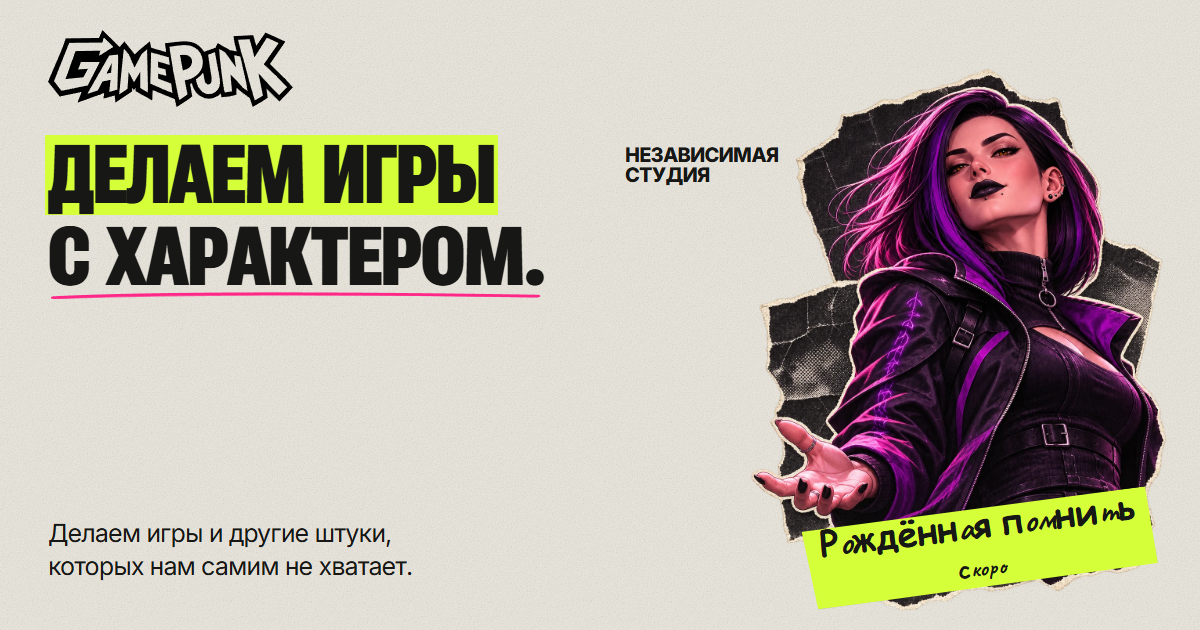
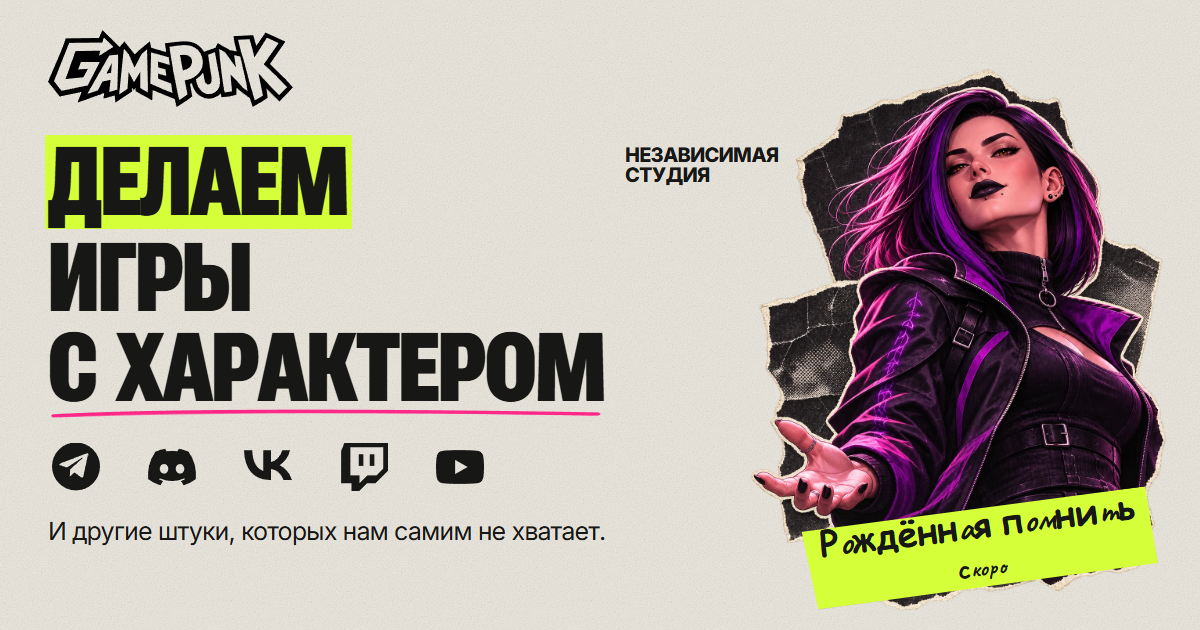
Refine the GamePunk hero and header and refresh bilingual social previews

diff --git a/src/pages/studio.css b/src/pages/studio.css
@@ -41,8 +41,11 @@
 .studio-page h3 { font-family: 'Inter', Arial, sans-serif; }
 .studio-page section[id] { scroll-margin-top: 24px; }
 .studio-container { width: min(1280px, calc(100% - 96px)); margin-inline: auto; }
-.studio-header { display: grid; grid-template-columns: auto 1fr auto; align-items: center; padding-block: 28px; gap: 24px; }
-.studio-header > a, .studio-footer > a { flex-shrink: 0; }
+.studio-header, .studio-header-main { display: flex; flex-wrap: wrap; align-items: center; gap: 4px 24px; }
+.studio-header { padding-block: 28px; }
+.studio-header-main { flex: 1 1 max-content; justify-content: space-between; }
+.studio-header .studio-languages, .studio-header .studio-nav { margin-left: auto; }
+.studio-header-main > a, .studio-footer > a { flex-shrink: 0; }
 .studio-logo { display: block; width: 340px; height: auto; }
 .studio-nav { display: flex; justify-content: flex-end; align-items: center; gap: 32px; font-size: 30px; font-weight: 750; }
 .studio-languages { display: flex; align-items: center; gap: 5px; font-size: 15px; font-weight: 750; white-space: nowrap; }
@@ -52,20 +55,26 @@
 .studio-nav a, .studio-nav-contact { min-height: 44px; display: inline-flex; align-items: center; gap: 5px; }
 .studio-nav a:hover, .studio-nav-contact:hover { text-decoration: underline; text-underline-offset: 6px; }
 .studio-nav svg { width: 30px; height: 30px; }
-.studio-hero { position: relative; padding-block: 35px 52px; border-bottom: 2px solid var(--studio-ink); }
-.studio-hero-copy { position: relative; z-index: 2; width: 64%; container-type: inline-size; }
-.studio-eyebrow { position: absolute; z-index: 3; left: 67%; top: 55px; font-size: clamp(19px, 1.8vw, 26px); line-height: 1.04; font-weight: 800; letter-spacing: -.04em; }
+.studio-hero { position: relative; display: grid; grid-template-columns: 64% 1fr; align-items: center; padding-block: 32px; border-bottom: 2px solid var(--studio-ink); }
+.studio-hero-copy { position: relative; z-index: 2; container-type: inline-size; }
+.studio-hero-art { min-width: 0; display: flex; flex-direction: column; align-items: flex-end; }
+.studio-eyebrow { position: relative; z-index: 3; align-self: flex-start; margin-left: 8%; font-size: clamp(19px, 1.8vw, 26px); line-height: 1.04; font-weight: 800; letter-spacing: -.04em; }
 .studio-hero h1 { font-family: 'Studio Poster', Impact, sans-serif; font-weight: 800; font-variation-settings: 'wdth' 55; font-size: 16cqw; letter-spacing: -.015em; line-height: .94; }
+/* Match fallback fonts to the width of Studio Poster's zero at wdth 55. */
+#studio-title { font-size-adjust: ch-width .475; }
 .studio-title-line { display: block; white-space: nowrap; }
 .studio-title-highlight { display: inline-block; padding: .025em .035em .01em; margin-left: -.035em; margin-bottom: .045em; background: var(--studio-lime); }
 .studio-title-marked { display: inline-block; position: relative; }
 .studio-title-marked svg { position: absolute; left: 0; bottom: -.055em; width: 100%; height: .115em; overflow: visible; stroke: var(--studio-pink); stroke-width: 7; stroke-linecap: round; }
 .studio-title-marked svg path + path { stroke-width: 3; opacity: .65; }
-.studio-hero-description { margin-block: 25px; font-size: clamp(18px, 2vw, 27px); line-height: 1.35; letter-spacing: -.04em; max-width: 560px; }
+.studio-hero-description { margin-block: 25px; font-size: clamp(18px, 2vw, 27px); line-height: 1.35; letter-spacing: -.04em; }
 .studio-page .studio-button { display: inline-flex; align-items: center; justify-content: center; gap: 28px; min-height: 58px; background: var(--studio-ink); color: var(--studio-paper); padding: 16px 24px; border: 2px solid var(--studio-ink); border-radius: 0; font-size: 18px; font-weight: 750; line-height: 1.25; transition: background .15s, color .15s; }
 .studio-page .studio-button:hover { background: var(--studio-lime); color: var(--studio-ink); }
 .studio-button svg { width: 25px; height: 25px; flex-shrink: 0; }
-.studio-collage { position: absolute; right: -40px; top: 90px; width: 41%; pointer-events: none; }
+.studio-socials { display: flex; justify-content: space-between; width: min(100%, 440px); gap: 8px; margin-top: clamp(26px, 3vw, 36px); }
+.studio-socials a { display: grid; place-items: center; width: 56px; height: 56px; }
+.studio-socials a:is(:hover, :focus-visible) { background: var(--studio-lime); }
+.studio-collage { position: relative; right: -40px; width: 114%; margin-top: -12px; pointer-events: none; }
 .studio-collage-art { display: block; width: 100%; height: auto; }
 .studio-character-sticker { position: absolute; right: 4%; bottom: 5%; padding: .04em .45em .15em; background: var(--studio-lime); font-family: 'Studio Hand', cursive; font-size: clamp(25px, 3vw, 43px); font-weight: 700; line-height: 1.05; text-align: center; white-space: nowrap; transform: rotate(-7deg); box-shadow: 1px 3px 1px #17171526; clip-path: polygon(0 4%, 99% 0, 100% 94%, 2% 100%); }
 .studio-character-sticker small { font-size: .64em; }
@@ -149,20 +158,14 @@
 .studio-game-description { font-size: 16px; line-height: 1.55; }
 .studio-game-actions { display: flex; flex-wrap: wrap; align-items: center; gap: 12px 20px; margin-top: 20px; padding-top: 16px; border-top: 1px solid var(--studio-ink); }
 .studio-game-actions .studio-button { min-height: 48px; padding: 10px 16px; font-size: 15px; gap: 14px; }
-@media (min-width: 601px) and (max-width: 1100px) {
-  .studio-header { grid-template-columns: 1fr auto; gap: 8px 24px; }
-  .studio-header .studio-languages { grid-column: 2; grid-row: 1; }
-  .studio-header .studio-nav { grid-column: 1 / -1; grid-row: 2; }
-}
 @media (max-width: 900px) {
   .studio-container { width: calc(100% - 48px); }
   .studio-header { padding-block: 24px; }
   .studio-logo { width: clamp(170px, 28vw, 250px); }
   .studio-nav { gap: 24px; font-size: clamp(19px, 3vw, 24px); }
   .studio-nav svg { width: 25px; height: 25px; }
-  .studio-hero-copy { width: 61%; }
-  .studio-eyebrow { left: 65%; top: 45px; }
-  .studio-collage { right: -25px; top: 80px; width: 46%; }
+  .studio-hero { grid-template-columns: 61% 1fr; min-height: 0; padding-block: 16px 24px; }
+  .studio-collage { right: -25px; width: 118%; }
   .studio-manifesto-layout { grid-template-columns: 1fr 140px; gap: 30px; }
   .studio-people-layout { grid-template-columns: 1fr; gap: 40px; }
   .studio-person:not(:last-child) { padding-bottom: 28px; border-bottom: 1px solid #8e8b83; }
@@ -174,25 +177,25 @@
 }
 @media (max-width: 600px) {
   .studio-container { width: calc(100% - 36px); }
-  .studio-header { grid-template-columns: 1fr auto; gap: 12px; padding-block: 18px 8px; align-items: center; }
-  .studio-header .studio-languages { grid-column: 2; grid-row: 1; }
+  .studio-header { padding-block: 18px 8px; }
+  .studio-header-main { justify-content: center; column-gap: 12px; }
   .studio-logo { width: clamp(180px, 56vw, 220px); }
-  .studio-nav { grid-column: 1 / -1; grid-row: 2; width: 100%; justify-content: space-between; gap: 12px; font-size: 19px; }
+  .studio-header .studio-nav { margin-left: 0; gap: 12px; font-size: clamp(16px, 5.3vw, 19px); }
   .studio-nav-contact { gap: 2px; }
   .studio-nav svg { width: 20px; height: 20px; }
-  .studio-hero { padding-top: 50px; padding-bottom: 24px; }
-  .studio-hero-copy { width: 100%; }
-  .studio-eyebrow { left: auto; right: 0; top: 12px; font-size: 13px; }
+  .studio-hero { grid-template-columns: fit-content(65%) max-content minmax(0, 1fr); column-gap: 8px; container-type: inline-size; }
+  .studio-hero-copy, .studio-hero-art { display: contents; }
+  .studio-hero h1, .studio-socials, .studio-hero-description, .studio-collage { grid-column: 1 / -1; }
+  .studio-eyebrow { align-self: center; margin: 0; font-size: 13px; }
   .studio-hero h1 { line-height: .96; letter-spacing: -.035em; }
-  .studio-hero { min-height: 0; }
+  .studio-socials { margin-top: 22px; }
   .studio-page-en .studio-people .studio-heading { font-size: 39px; }
   .studio-page-en .studio-manifesto .studio-heading { font-size: 39px; }
   .studio-page-en .studio-contact .studio-heading { font-size: 39px; }
-  .studio-hero-description { font-size: 18px; width: 100%; max-width: 330px; margin-block: 16px; }
-  .studio-desktop-break { display: none; }
-  .studio-collage { position: relative; width: 78%; max-width: 280px; top: auto; right: auto; height: auto; margin: 12px auto 0; }
-  .studio-collage-art { height: auto; }
+  .studio-hero-description { font-size: 18px; margin-block: 16px; }
+  .studio-collage { width: 78%; max-width: 280px; right: auto; margin: 12px auto 0; }
   .studio-page .studio-button { font-size: 15px; min-height: 52px; padding: 13px 18px; gap: 20px; }
+  .studio-hero .studio-button { justify-self: start; padding-inline: 12px; gap: 8px; }
   .studio-projects { padding-block: 24px 34px; }
   .studio-kicker { font-size: 19px; margin-bottom: 12px; }
   .studio-page .studio-heading { font-size: 43px; }

diff --git a/src/pages/Index.tsx b/src/pages/Index.tsx
@@ -13,7 +13,7 @@ import { trackAnalytics } from "@/lib/analytics";
 import { legalHref } from "@/lib/siteContext";
 import { studioCopy } from "@/constants/studioCopy";
 import { studioLocale } from "@/lib/studioLocale";
-import { StudioHeroCollage, StudioHeroTitle } from "@/components/StudioHero";
+import { StudioHeroCollage, StudioHeroTitle, StudioSocials } from "@/components/StudioHero";
 import studioLogo from "@/assets/studio/gamepunk-logo.svg";
 import paintArrow from "@/assets/studio/paint-arrow.webp";
 import heroPhoto from "@/assets/hero-photo.webp";
@@ -41,12 +41,14 @@ const Index = () => {
     <div className={`studio-page studio-page-${locale}`} lang={locale}>
       <a href="#main-content" className="skip-link">{copy.skip}</a>
       <header className="studio-header studio-container">
-        <Link to={home} aria-label={copy.home}><img className="studio-logo" src={studioLogo} width="1756" height="551" alt="GamePunk" /></Link>
-        <nav aria-label={copy.navigation} className="studio-nav">
-          <a href="#projects">{copy.projects}</a>
-          <a href="#studio">{copy.studio}</a>
-          <ContactMessenger studio locale={locale} analyticsPlacement="header" variant="unstyled" size="none" effect="none" className="studio-nav-contact">{copy.contact} <ArrowUpRight aria-hidden="true" /></ContactMessenger>
-        </nav>
+        <div className="studio-header-main">
+          <Link to={home} aria-label={copy.home}><img className="studio-logo" src={studioLogo} width="1756" height="551" alt="GamePunk" /></Link>
+          <nav aria-label={copy.navigation} className="studio-nav">
+            <a href="#projects">{copy.projects}</a>
+            <a href="#studio">{copy.studio}</a>
+            <ContactMessenger studio locale={locale} analyticsPlacement="header" variant="unstyled" size="none" effect="none" className="studio-nav-contact">{copy.contact} <ArrowUpRight aria-hidden="true" /></ContactMessenger>
+          </nav>
+        </div>
         {languageLinks}
       </header>
 
@@ -54,11 +56,14 @@ const Index = () => {
         <section className="studio-hero studio-container" aria-labelledby="studio-title">
           <div className="studio-hero-copy">
             <StudioHeroTitle locale={locale} />
-            <p className="studio-hero-description">{copy.description}<br className="studio-desktop-break" /> {copy.descriptionEnd}</p>
+            <StudioSocials locale={locale} />
+            <p className="studio-hero-description">{copy.description} {copy.descriptionEnd}</p>
             <a href="#projects" className={buttonStyles({ variant: "unstyled", size: "none", effect: "none", className: "studio-button" })}>{copy.viewProjects} <ArrowDown aria-hidden="true" /></a>
           </div>
-          <p className="studio-eyebrow">{copy.independent[0]}<br />{copy.independent[1]}</p>
-          <StudioHeroCollage locale={locale} className="studio-collage" />
+          <div className="studio-hero-art">
+            <p className="studio-eyebrow">{copy.independent[0]}<br />{copy.independent[1]}</p>
+            <StudioHeroCollage locale={locale} className="studio-collage" />
+          </div>
         </section>
 
         <section id="projects" className="studio-projects studio-container" aria-labelledby="studio-projects-title">

diff --git a/src/constants/studioCopy.ts b/src/constants/studioCopy.ts
@@ -3,8 +3,9 @@ import { profileExperience } from "@/content/proof";
 export const studioCopy = {
   ru: {
     skip: "Перейти к содержимому", home: "GamePunk — главная", navigation: "Навигация студии", language: "Язык сайта",
-    projects: "Проекты", studio: "Студия", contact: "Связаться", hero: ["ДЕЛАЕМ ИГРЫ", "С ХАРАКТЕРОМ."],
-    description: "Делаем игры и другие штуки,", descriptionEnd: "которых нам самим не хватает.", viewProjects: "Смотреть проекты",
+    projects: "Проекты", studio: "Студия", contact: "Связаться", hero: ["ДЕЛАЕМ", "ИГРЫ", "С ХАРАКТЕРОМ"],
+    description: "И другие штуки,", descriptionEnd: "которых нам самим не хватает.", viewProjects: "Смотреть проекты",
+    socialLinks: "Соцсети и сообщества",
     independent: ["НЕЗАВИСИМАЯ", "СТУДИЯ"], collageAlt: "Малена с обложки «Рождённая помнить» в коллаже из рваной бумаги",
     characterSticker: "Рождённая помнить", releaseNote: "скоро", projectsKicker: "01 / ПРОЕКТЫ", projectsTitle: "Что мы натворили",
     gameTypes: ["Дуэли с отстрелом конечностей", "PSX-стайл хоррор"], cover: "Обложка игры",
@@ -26,8 +27,9 @@ export const studioCopy = {
   },
   en: {
     skip: "Skip to content", home: "GamePunk — home", navigation: "Studio navigation", language: "Site language",
-    projects: "Projects", studio: "Studio", contact: "Contact", hero: ["WE MAKE GAMES", "WITH CHARACTER."],
-    description: "We make games and other things", descriptionEnd: "we wish existed.", viewProjects: "Explore our projects",
+    projects: "Projects", studio: "Studio", contact: "Contact", hero: ["WE MAKE", "GAMES", "WITH ATTITUDE"],
+    description: "And other things", descriptionEnd: "we wish existed.", viewProjects: "Explore our projects",
+    socialLinks: "Social channels and communities",
     independent: ["INDEPENDENT", "STUDIO"], collageAlt: "Malena from the Born to Remember cover in a torn-paper collage",
     characterSticker: "Born to Remember", releaseNote: "coming soon", projectsKicker: "01 / PROJECTS", projectsTitle: "What we’ve been up to",
     gameTypes: ["Duels with limb dismemberment", "PSX-style horror"], cover: "Game cover:",

diff --git a/src/components/StudioHero.tsx b/src/components/StudioHero.tsx
@@ -1,20 +1,43 @@
 import heroCollage from "@/assets/studio/hero-collage.webp";
+import { DiscordIcon, TelegramIcon, TwitchIcon, VkIcon, YoutubeIcon } from "@/components/SocialIcons";
+import { gamepunkLinks, telegramCommunityUrl } from "@/constants/contactLinks";
 import { studioCopy } from "@/constants/studioCopy";
 import type { StudioLocale } from "@/lib/studioLocale";
 
 export function StudioHeroTitle({ locale }: { locale: StudioLocale }) {
-  const { hero } = studioCopy[locale];
+  const [verb, games, character] = studioCopy[locale].hero;
   return (
     <h1 id="studio-title">
-      <span className="studio-title-line"><span className="studio-title-highlight">{hero[0]}</span></span>{" "}
+      <span className="studio-title-line"><span className="studio-title-highlight">{verb}</span></span>{" "}
+      <span className="studio-title-line">{games}</span>{" "}
       <span className="studio-title-line">
-        <span className="studio-title-marked">{hero[1]}
+        <span className="studio-title-marked">{character}
           <svg viewBox="0 0 600 24" preserveAspectRatio="none" fill="none" aria-hidden="true">
             <path d="M7 17C126 4 357 5 591 13" /><path d="M13 19C153 9 375 7 587 15" />
           </svg>
         </span>
       </span>
     </h1>
+  );
+}
+
+const socialChannels = [
+  { name: "Telegram", href: telegramCommunityUrl, icon: TelegramIcon },
+  { name: "Discord", href: gamepunkLinks.discord, icon: DiscordIcon },
+  { name: "VK", href: gamepunkLinks.vk, icon: VkIcon },
+  { name: "Twitch", href: gamepunkLinks.twitch, icon: TwitchIcon },
+  { name: "YouTube", href: gamepunkLinks.youtube, icon: YoutubeIcon },
+];
+
+export function StudioSocials({ locale }: { locale: StudioLocale }) {
+  return (
+    <nav className="studio-socials" aria-label={studioCopy[locale].socialLinks}>
+      {socialChannels.map(({ name, href, icon: Icon }) => (
+        <a key={name} href={href} target="_blank" rel="noopener noreferrer" aria-label={name} title={name}>
+          <Icon size={48} />
+        </a>
+      ))}
+    </nav>
   );
 }
 

diff --git a/src/test/studio-language.test.tsx b/src/test/studio-language.test.tsx
@@ -19,11 +19,11 @@ describe("studio languages", () => {
     expect(english).toHaveLength(2);
     expect(english[0]).toHaveAttribute("href", "/en/?ref=studio#projects");
     fireEvent.click(english[0]);
-    expect(screen.getByRole("heading", { level: 1 })).toHaveTextContent("WE MAKE GAMES WITH CHARACTER.");
+    expect(screen.getByRole("heading", { level: 1 })).toHaveTextContent("WE MAKE GAMES WITH ATTITUDE");
     const russian = screen.getAllByRole("link", { name: "Русский" });
     expect(russian[1]).toHaveAttribute("href", "/?ref=studio#projects");
     fireEvent.click(russian[1]);
-    expect(screen.getByRole("heading", { level: 1 })).toHaveTextContent("ДЕЛАЕМ ИГРЫ С ХАРАКТЕРОМ.");
+    expect(screen.getByRole("heading", { level: 1 })).toHaveTextContent("ДЕЛАЕМ ИГРЫ С ХАРАКТЕРОМ");
   });
 
   it("translates contact options without changing their reveal mechanism", async () => {
@@ -65,7 +65,7 @@ describe("studio languages", () => {
     expect(prerenderPaths).toContain("/en");
     const html = await renderPage("/en/");
     const doc = new DOMParser().parseFromString(html, "text/html");
-    expect(Array.from(doc.querySelectorAll("h1 .studio-title-line"), line => line.textContent)).toEqual(["WE MAKE", "GAMES", "WITH CHARACTER."]);
+    expect(Array.from(doc.querySelectorAll("h1 .studio-title-line"), line => line.textContent)).toEqual(["WE MAKE", "GAMES", "WITH ATTITUDE"]);
     expect(html).toContain("Without analytics");
     expect(html).toContain("PSX-style horror");
     expect(html).not.toContain("Настройки аналитики");

diff --git a/src/lib/resolvePageMetadata.ts b/src/lib/resolvePageMetadata.ts
@@ -11,7 +11,7 @@ export const resolvePageMetadata = async (pathname: string): Promise<PageMetadat
   if (isStudioPath(path)) {
     const metadata = findRouteMetadata(path)!;
     const language = studioLocale(path);
-    return { ...metadata, language, alternates: [{ language: "ru", pathname: "/" }, { language: "en", pathname: "/en/" }], image: language === "en" ? "/studio-social-en.png" : "/studio-social.png", imageAlt: language === "en" ? "GamePunk — We make games with character." : "GamePunk — Делаем игры с характером.", imageWidth: 1200, imageHeight: 630, structuredData: { "@context": "https://schema.org", "@type": "Organization", name: "GamePunk", url: canonicalUrl(path), description: metadata.description } };
+    return { ...metadata, language, alternates: [{ language: "ru", pathname: "/" }, { language: "en", pathname: "/en/" }], image: language === "en" ? "/studio-social-en.png" : "/studio-social.png", imageAlt: language === "en" ? "GamePunk — We make games with attitude" : "GamePunk — Делаем игры с характером", imageWidth: 1200, imageHeight: 630, structuredData: { "@context": "https://schema.org", "@type": "Organization", name: "GamePunk", url: canonicalUrl(path), description: metadata.description } };
   }
   if (/^\/(en\/)?(privacy|terms)$/.test(path)) {
     const documentPath = path.replace(/^\/en/, "");

diff --git a/src/components/StudioSnippet.tsx b/src/components/StudioSnippet.tsx
@@ -1,4 +1,4 @@
-import { StudioHeroCollage, StudioHeroTitle } from "@/components/StudioHero";
+import { StudioHeroCollage, StudioHeroTitle, StudioSocials } from "@/components/StudioHero";
 import studioLogo from "@/assets/studio/gamepunk-logo.svg";
 import { studioCopy } from "@/constants/studioCopy";
 import type { StudioLocale } from "@/lib/studioLocale";
@@ -11,8 +11,11 @@ const StudioSnippet = ({ locale }: { locale: StudioLocale }) => {
       <div className="snippet-frame">
         <div id="og-snippet-container" className="studio-page studio-snippet" lang={locale}>
           <img className="studio-snippet-logo" src={studioLogo} width="1756" height="551" alt="GamePunk" />
-          <StudioHeroTitle locale={locale} />
-          <p className="studio-snippet-description">{copy.description}<br />{copy.descriptionEnd}</p>
+          <div className="studio-snippet-copy">
+            <StudioHeroTitle locale={locale} />
+            <StudioSocials locale={locale} />
+            <p className="studio-snippet-description">{copy.description} {copy.descriptionEnd}</p>
+          </div>
           <p className="studio-snippet-label">{copy.independent[0]}<br />{copy.independent[1]}</p>
           <StudioHeroCollage locale={locale} className="studio-snippet-collage" />
         </div>

diff --git a/src/components/studio-snippet.css b/src/components/studio-snippet.css
@@ -1,6 +1,8 @@
 .studio-snippet { width: 1200px; height: 630px; overflow: hidden; }
 .studio-snippet-logo { position: absolute; top: 30px; left: 48px; width: 245px; height: auto; }
-.studio-snippet h1 { position: absolute; top: 135px; left: 48px; z-index: 2; font-family: 'Studio Poster', Impact, sans-serif; font-weight: 800; font-variation-settings: 'wdth' 55; font-size: 82px; line-height: .94; letter-spacing: -.015em; }
-.studio-snippet-description { position: absolute; left: 48px; bottom: 46px; font-size: 25px; line-height: 1.35; letter-spacing: -.035em; }
+.studio-snippet-copy { position: absolute; top: 135px; left: 48px; z-index: 2; width: 620px; }
+.studio-snippet h1 { font-family: 'Studio Poster', Impact, sans-serif; font-weight: 800; font-variation-settings: 'wdth' 55; font-size: 96px; line-height: .94; letter-spacing: -.015em; }
+.studio-snippet .studio-socials { margin-top: 26px; }
+.studio-snippet-description { margin-top: 20px; font-size: 25px; line-height: 1.35; letter-spacing: -.035em; }
 .studio-snippet-label { position: absolute; left: 625px; top: 145px; z-index: 2; font-size: 20px; line-height: 1.02; font-weight: 800; letter-spacing: -.04em; }
 .studio-snippet-collage { position: absolute; right: 28px; bottom: 12px; width: 425px; }

diff --git a/src/test/prerender.test.tsx b/src/test/prerender.test.tsx
@@ -21,9 +21,13 @@ const parseMarkup = (html: string) => {
 };
 
 describe("readable server rendering", () => {
-  it.each([["ru", "ДЕЛАЕМ ИГРЫ"], ["en", "WE MAKE GAMES"]])("renders the %s studio preview with the homepage logo and collage", async (language, heading) => {
+  it.each([
+    ["ru", ["ДЕЛАЕМ", "ИГРЫ", "С ХАРАКТЕРОМ"]],
+    ["en", ["WE MAKE", "GAMES", "WITH ATTITUDE"]],
+  ] as const)("renders the %s studio preview with the homepage headline, social links and collage", async (language, lines) => {
     const doc = parseMarkup(await render(`/snippet/?view=studio&lang=${language}`));
-    expect(doc.querySelector("h1")?.textContent).toContain(heading);
+    expect(Array.from(doc.querySelectorAll("h1 .studio-title-line"), line => line.textContent)).toEqual(lines);
+    expect(doc.querySelectorAll(".studio-socials a")).toHaveLength(5);
     expect(doc.querySelector('.studio-snippet-logo')?.getAttribute("src")).toContain("gamepunk-logo.svg");
     expect(doc.querySelector('.studio-snippet-collage .studio-collage-art')?.getAttribute("src")).toContain("hero-collage.webp");
     const sticker = doc.querySelector(".studio-character-sticker");

diff --git a/src/components/SocialIcons.tsx b/src/components/SocialIcons.tsx
@@ -46,6 +46,12 @@ export const YoutubeIcon = (props: IconProps) => (
   </BaseIcon>
 );
 
+export const VkIcon = (props: IconProps) => (
+  <BaseIcon {...props}>
+    <path d="M0 3.6h4.1c.14 6.85 3.16 9.76 5.54 10.36V3.6h3.86v5.91c2.35-.25 4.82-2.94 5.66-5.91h3.85c-.64 3.66-3.34 6.36-5.25 7.47 1.91.9 4.98 3.25 6.24 7.43h-4.24c-.98-2.95-3.34-5.23-6.26-5.53v5.53h-.47C4.83 18.5.15 12.88 0 3.6Z" />
+  </BaseIcon>
+);
+
 export const TwitchIcon = (props: IconProps) => (
   <BaseIcon {...props}>
     <path d="M2.149 0L.537 4.11V20.11h5.19V24h3.91l3.91-3.89h4.167l6.286-6.29V0zm19.463 12.87l-3.344 3.345h-4.634l-3.91 3.91v-3.91H5.19V2.148h16.422zM17.167 5.618h-2.316v5.807h2.316zm-5.464 0H9.387v5.807h2.316z"/>

diff --git a/src/constants/contactLinks.ts b/src/constants/contactLinks.ts
@@ -2,6 +2,9 @@ export const telegramCommunityUrl = "https://t.me/Absolute_Unreal";
 export const donationAlertsUrl = "https://www.donationalerts.com/r/absolutemikhail";
 
 export const gamepunkLinks = {
+  discord: "https://discord.gg/NkwZ8pqyS6",
+  vk: "https://vk.ru/absoluteunreal",
+  twitch: "https://www.twitch.tv/absolutemikhail",
   steam: "https://store.steampowered.com/developer/GamePunk-Studio/",
   linkedin: "https://www.linkedin.com/company/106789897",
   x: "https://x.com/AbsoluteMikhail",
